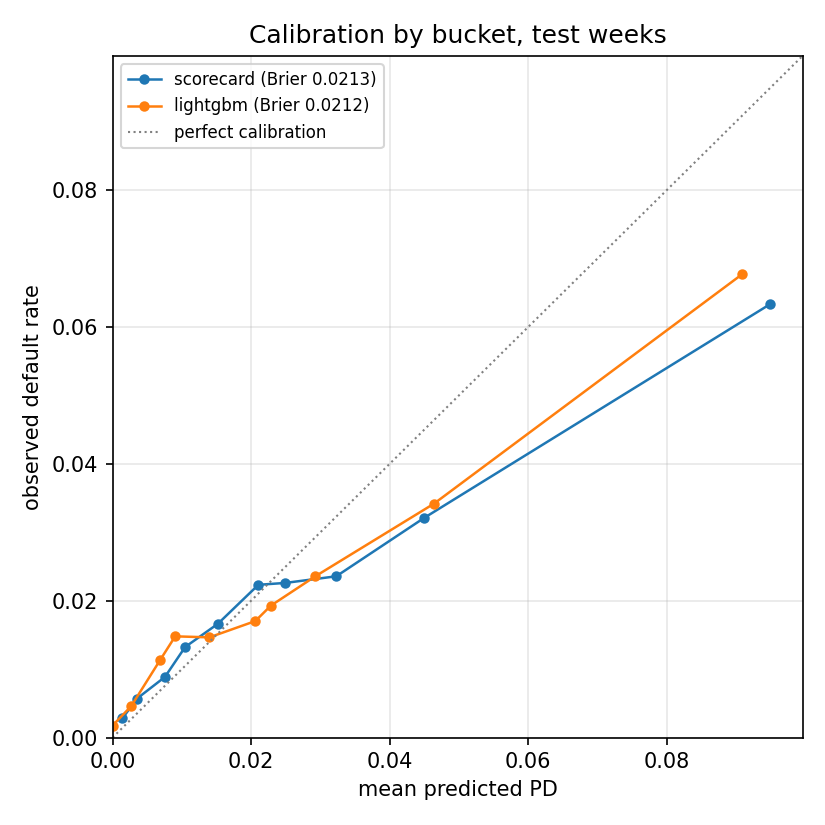
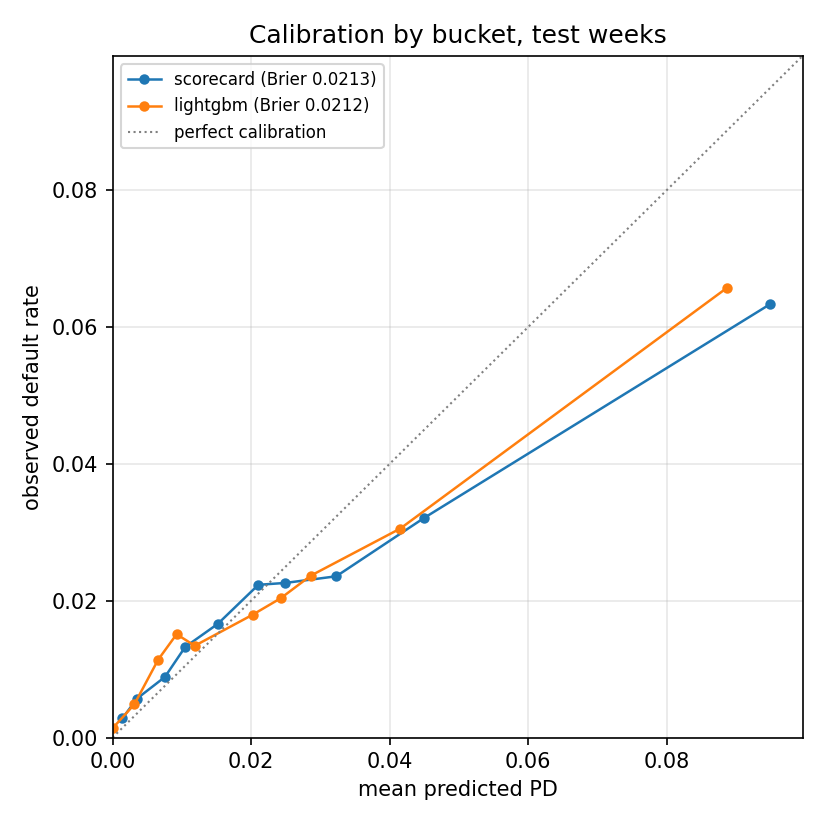
Update the challenger's numbers, which the sort changed and now fixes
The models stage re-run on the sorted feature frame confirms the prediction
exactly. Every scorecard metric is unchanged to five decimals, because
binning and logistic regression do not care about row order. Every challenger
metric moved: Gini 0.4264 to 0.4219, stability 0.3909 to 0.3864, PD PSI
0.4202 to 0.4365.

So the challenger's advantage is 2.7 Gini points rather than 3.0, and the
numbers that say so can now be reproduced by re-running the kernels, which
they could not before. The old figures were not wrong when measured; they
were unrepeatable, which for a repository whose claim is reproduction is the
worse property.

Updated in both documents: the headline tables, the three-questions summary,
the question 1 prose, the PSI flag, and the monitoring plan's weekly Gini row
(mean 0.416, sd 0.061, min 0.301, so the mean-minus-two-sd alert moves from
0.30 to 0.29) and its trend row.

scorecard_table.csv differs only in the thirteenth decimal of the points, an
artefact of the solver accumulating in a different order. Every bin, WoE and
event rate is identical, and the stored PDs are float32, where that
difference does not survive.

The decision and sampling-bias stages are re-running: both consume the
features, so their numbers need the same treatment.

diff --git a/README.md b/README.md
@@ -17,8 +17,8 @@ team evaluates models: out-of-time, on calibration, stability and profit.
 
 **1. What does a gradient-boosted challenger add over a classic scorecard once
 stability, calibration and profit are measured, not just AUC?** About 3 Gini
-points (0.394 to 0.426), and it keeps them under the competition's stability
-metric (0.359 to 0.391). It is also better calibrated and its score
+points (0.394 to 0.422), and it keeps them under the competition's stability
+metric (0.359 to 0.386). It is also better calibrated and its score
 distribution drifts less. But profit cannot separate the two at all: on this
 book no approval cutoff binds and EMPCS is ≈0 for both, so the gain is real,
 modest, and not where the money is.
@@ -54,14 +54,14 @@ Full data, 1,526,659 cases, evaluated out-of-time on the last 23 weeks
 
 | | scorecard | LightGBM | better |
 |---|---|---|---|
-| Gini | 0.3944 | **0.4264** | challenger |
-| mean weekly Gini | 0.3854 | **0.4205** | challenger |
-| Gini slope / week | +0.0026 | +0.0019 | (both rising) |
-| Gini residual sd | **0.0521** | 0.0592 | champion |
-| **stability metric** | 0.3594 | **0.3909** | challenger |
-| Brier | 0.02131 | **0.02117** | challenger |
-| calibration-in-the-large, worst week | 0.0095 | **0.0084** | challenger |
-| PSI of predicted PD vs train | 0.5028 | **0.4202** | challenger |
+| Gini | 0.3944 | **0.4219** | challenger |
+| mean weekly Gini | 0.3854 | **0.4162** | challenger |
+| Gini slope / week | +0.0026 | +0.0020 | (both rising) |
+| Gini residual sd | **0.0521** | 0.0595 | champion |
+| **stability metric** | 0.3594 | **0.3864** | challenger |
+| Brier | 0.02131 | **0.02119** | challenger |
+| calibration-in-the-large, worst week | 0.0095 | **0.0082** | challenger |
+| PSI of predicted PD vs train | 0.5028 | **0.4365** | challenger |
 | EMPCS | ≈0 | ≈0 | (see below) |
 
 The champion is a **13-characteristic** scorecard with no sign flips: every
@@ -70,15 +70,15 @@ correctly end to end.
 
 ## Question 1: what the challenger adds
 
-About **3 Gini points** (0.394 → 0.426), and it keeps them once stability is
-measured: the stability metric moves 0.359 → 0.391. The margin narrowed from 5
-points after an income-encoding fix that helped the scorecard and left the
-challenger unmoved (below). Neither model's Gini decays over the test weeks:
-both slopes are positive, so the metric's 88× falling-slope penalty never
-engages and the gap is driven by level, not trend. The challenger is also
+About **2.7 Gini points** (0.394 to 0.422), and it keeps them once stability is
+measured: the stability metric moves 0.359 to 0.386. The margin narrowed from
+4.6 points after an income-encoding fix that lifted the scorecard from 0.376
+and left the challenger unmoved (below). Neither model's Gini decays over the
+test weeks: both slopes are positive, so the metric's 88× falling-slope penalty
+never engages and the gap is driven by level, not trend. The challenger is also
 *slightly* better calibrated and noticeably more stable in its score
-distribution (PSI 0.42 vs 0.50). The one thing the champion wins is
-week-to-week smoothness (residual sd 0.052 vs 0.059).
+distribution (PSI 0.44 vs 0.50). The one thing the champion wins is
+week-to-week smoothness (residual sd 0.052 vs 0.060).
 
 It is a real but unspectacular gain, bought with hundreds of trees against a
 13-characteristic scorecard, under monotone constraints taken from the
@@ -97,7 +97,7 @@ degeneracy there is a result about the assumptions rather than something to
 tune away. Under this portfolio's economics, the model's value is not in
 choosing an approval cutoff.
 
-A PD PSI above 0.25 for both models (0.50 and 0.42) is worth flagging: in
+A PD PSI above 0.25 for both models (0.50 and 0.44) is worth flagging: in
 production that is an alert threshold, and it reflects genuine drift over 92
 weeks rather than a modelling defect. Test-week PSI is reported here only; it
 is never used for any selection decision.

diff --git a/MODEL.md b/MODEL.md
@@ -106,16 +106,16 @@ Test weeks 69-91, 225,514 cases, fitted on by nothing.
 
 | | scorecard | LightGBM |
 |---|---|---|
-| Gini | 0.3944 | **0.4264** |
-| mean weekly Gini | 0.3854 | **0.4205** |
-| Gini slope / week | +0.0026 | +0.0019 |
-| Gini residual sd | **0.0521** | 0.0592 |
-| **stability metric** | 0.3594 | **0.3909** |
-| Brier | 0.02131 | **0.02117** |
-| worst-week calibration gap | 0.0095 | **0.0084** |
-| PSI of predicted PD vs train | 0.5028 | **0.4202** |
+| Gini | 0.3944 | **0.4219** |
+| mean weekly Gini | 0.3854 | **0.4162** |
+| Gini slope / week | +0.0026 | +0.0020 |
+| Gini residual sd | **0.0521** | 0.0595 |
+| **stability metric** | 0.3594 | **0.3864** |
+| Brier | 0.02131 | **0.02119** |
+| worst-week calibration gap | 0.0095 | **0.0082** |
+| PSI of predicted PD vs train | 0.5028 | **0.4365** |
 
-The challenger adds about **3 Gini points** and keeps them once stability is
+The challenger adds about **2.7 Gini points** and keeps them once stability is
 measured. Note *why*: neither model decays, both slopes are positive, so the
 stability metric's 88× falling-slope penalty never engages and the gap is
 level, not trend. The champion wins only on week-to-week smoothness.
@@ -186,7 +186,7 @@ simulated on an already-booked population, which is the easier problem, so
 **EMP assumptions are assumptions**, and at the literature's values the profit
 analysis is degenerate (§4). Every profit number is reported across a grid.
 
-**Drift is real and unaddressed.** The PD PSI is 0.42-0.50 train-to-test, above
+**Drift is real and unaddressed.** The PD PSI is 0.44-0.50 train-to-test, above
 any conventional alert threshold, and it is the direct cause of the conformal
 coverage failure.
 
@@ -222,8 +222,8 @@ not from convention.
 
 | signal | observed | investigate | escalate |
 |---|---|---|---|
-| **weekly Gini** (challenger) | mean 0.421, sd 0.059, min ~0.31 | any week < 0.30 (mean - 2 sd) | 2 consecutive weeks < 0.30, or 4-week mean < 0.35 |
-| **Gini trend** | slope +0.0017 /wk | 8-week slope < 0 | 8-week slope < -0.003 (the metric penalises this 88×) |
+| **weekly Gini** (challenger) | mean 0.416, sd 0.061, min 0.301 | any week < 0.29 (mean - 2 sd) | 2 consecutive weeks < 0.29, or 4-week mean < 0.35 |
+| **Gini trend** | slope +0.0020 /wk | 8-week slope < 0 | 8-week slope < -0.003 (the metric penalises this 88×) |
 | **calibration in the large** | worst week 0.008, range -0.003 to +0.009 | any week \|gap\| > 0.010 | 2 consecutive weeks \|gap\| > 0.015 |
 | **PSI of predicted PD vs train** | median 0.42, range 0.30-0.71 | weekly PSI > 0.60 | weekly PSI > 0.75, or 4-week median > 0.60 |
 | **conformal coverage, default class** | 0.747, target 0.90 | any week < 0.70 | 4-week mean < 0.65 |
